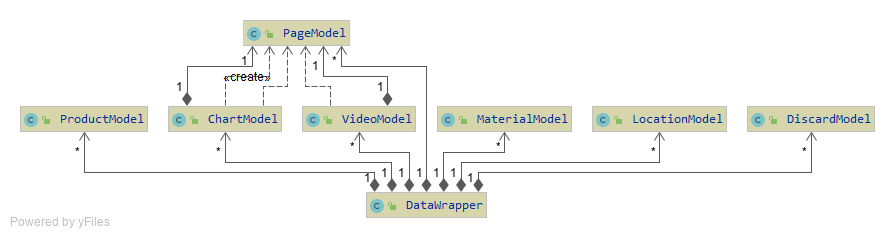
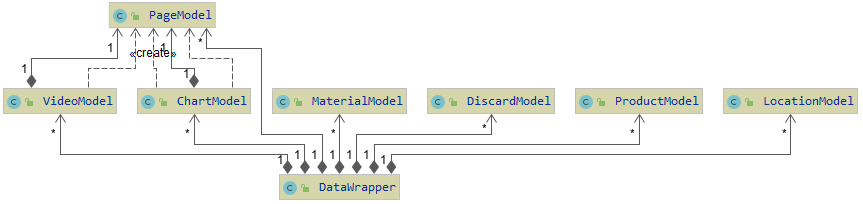
ciclo de vida parte 1

diff --git a/abntex2-modelo-trabalho-academico.tex b/abntex2-modelo-trabalho-academico.tex
@@ -598,6 +598,8 @@ A arquitetura do sistema operacional Android é divida em camadas, onde cada cam
      \label{fig:arquitetura}
 \end{figure}
 
+\newpage
+
 \subsubsection{Kernel}
 Os dispositivos móveis possuem arquiteturas distintas e para isso é necessária uma camada capaz de gerenciar os recursos do sistema, além de fornecer aos programas do usuário uma interface simplificada com o hardware.
 O sistema operacional Android utiliza o kernel do Linux, que é responsável por gerenciar serviços como segurança, gerenciamento de memória, processos, rede e drivers.
@@ -625,6 +627,52 @@ O kit de desenvolvimento de software Android (Android SDK) é um pacote com dive
 Embora o SDK possa ser usado por linha de comando, o método mais comum é usar um ambiente de desenvolvimento integrado (IDE). 
 \subsection{Java SDK}
 O Java SDK, também conhecido como Java Development Kit (JDK) é um conjunto de utilitários que permitem o desenvolvimento de programas capazes de rodar em uma maquina virtual Java (JVM).
+\subsection{Componentes Android}
+\subsubsection{Activity} 
+É um componente que fornece uma tela a qual o usuário pode interagir, um aplicativo pode ter várias activities de entrada que podem chamar inúmeras activities dependendo da interação do usuário. Para usa-las de forma correta, é necessário entender conceitos como seu ciclo de vida, gerenciamento na memória e seus métodos. 
+
+\subsubsection{Fragment}
+Esse componente permite a criação de interfaces ou módulos de interface reutilizáveis, esse componente só existe dentro de uma \textit{activity}, logo, apesar de possuir seu próprio ciclo de vida, alterações no ciclo da vida da \textit{activity} afetam o ciclo de vida do \textit{fragment}.  
+
+\subsection{Gerenciamento de memória}
+Em aplicativos moveis os recursos do sistema são fatores importantes para garantir o desempenho de todas as aplicações, por isso, o sistema operacional \textit{Android} controla como seus recursos serão distribuídos. Aplicativos que estão abertos em segundo plano ou \textit{activities} empilhadas podem ter telas destruídas e variáveis removidas da memoria a qualquer momento. Para solucionar esse problema o sistema operacional oferece um conjunto de \textit{callbacks} no componente \textit{activity} para que o desenvolvedor possa controlar os comportamentos durante as mudanças de estado do sistema, esses estados são controlados pelo ciclo de vida.
+
+\begin{figure}[h]
+\centering
+   \caption{Empilhamento de activities}
+   \includegraphics[scale=0.70]{media/diagram_backstack.png}
+   \legend{Fonte: developer.android.com}
+     \label{fig:arquitetura}
+\end{figure}
+
+\subsection{Ciclo de vida}
+À medida que o usuário navega no aplicativo, sai dele e retorna a ele, as instâncias \textit{Activity} no aplicativo transitam entre diferentes estados no ciclo de vida. A classe Activity fornece uma quantidade de \textit{callbacks} que permite que o desenvolvedor saiba sobre a mudança do estado.
+
+
+\subsubsection{Fluxo do ciclo de vida}
+O Diagrama a seguir mostra quando os \textit{callback} são executados durante a mudança do ciclo de vida da \textit{activity}.
+\begin{figure}[h]
+\centering
+   \caption{Ciclo de vida - Activity}
+   \includegraphics[scale=0.70]{media/activity_lifecycle.png}
+   \legend{Fonte: developer.android.com}
+     \label{fig:arquitetura}
+\end{figure}
+
+\newpage
+\subsubsection{OnCreate} 
+     É chamado assim que uma \textit{activity} é iniciada, boa parte da inicialização é feita nesse \textit{callback}, incluindo o processo de inflação da interface de usuário. O \textit{onCreate} é executado uma vez durante a inicialização e só será chamado novamente caso o sistema operacional decida destruir a \textit{activity} para liberar recursos para \textit{activities} com maior prioridade.
+     \subsubsection{OnStart}
+     Chamado após o \textit{OnCreate} ou após o \textit{OnRestart}, o \textit{Onstart} é executado quando a interface gráfica está visível, porem o usuário ainda não pode interagir. Esse \textit{callback} é normalmente utilizado inicializações adicionais, desenhar componentes e executar animações.
+     \subsubsection{OnResume}
+      Chamado quando a atividade vai iniciar a interação com o usuário. Nesse ponto, sua atividade está no topo da pilha de atividades.
+      \subsubsection{OnRestart}
+     \subsubsection{OnPause}
+     Chamado quando o sistema está por resumir a \textit{activity} anterior. É tipicamente usado para persistir mudanças ainda não efetivadas, parar animações e liberar recursos. A partir desse ponto o sistema operacional pode forçar a liberação de recursos consumidos pela \textit{activity} pausada.
+     \subsubsection{OnStop}
+     \subsubsection{OnDestroy}
+
+\newpage
 \section{API}
 A \textit{Application Programming Interface} (API) permite a comunicação e consumo de dados entre aplicações. Um dos motivos que tornam o uso de uma \textit{API} atrativo é a abstração, já que não é necessário conhecer a plataforma ou maneira que o aplicativo consumidor foi desenvolvido. Outra vantagem é o fato deste modelo ser baseado em tecnologias padrões, em particular o HTTP (Hypertext Transfer Protocol). Os dados transferidos entres essas aplicações seguem um formato padrão, os mais utilizados são \textit{JavaScript Object Notation} (JSON) e \textit{Extensible Markup Languag} (XML). Neste projeto utilizaremos JSON.
 
@@ -930,12 +978,46 @@ Para a prestância da dados foi escolhido o banco de dados mais popular entre os
      \label{fig:pageModel}
 \end{figure}
 
-
-  
+\item{DataWrapper}   \\ A classe \textit{DataWrapper} engloba todos os dados que serão utilizados na aplicação, essa classe foi criada para facilitar a requisição de dados em uma única requisição ao servidor. Vale ressaltar que dados como imagens e vídeos são enviados para o aplicativo de acordo com a necessidade, logo, não há sobrecarga ao realizar uma única requisição.
+\newline
+  \begin{itemize}
+  \item{GraphList}\\ Todos os gráficos .
+       \item{PageList}\\  Todas as páginas 
+         \item{VideoList}\\ Todos os vídeos
+         . \item{LocationList}\\ Todas as localizações pesquisadas pelo usuario.
+         \item{ProductList}\\  Todos os produtos
+         \item{DiscardList}\\ Todos os métodos de descarte 
+         \item{MaterialList}\\  Todos os materiais
+         
+\end{itemize}
+\begin{figure}[h]
+\centering
+   \caption{Entidade - DataWrapper}
+   \includegraphics[scale=1.0]{media/DataWrapperModel.png}
+   \legend{Fonte: Autor}
+     \label{fig:datawrapper}
+\end{figure}
 \end{enumerate}
 
+\newpage
+\subsubsection{Diagrama de classe geral}
+As imagens a seguir representam as dependências entre as entidades.
 
+\begin{figure}[h]
+\centering
+   \caption{Diagrama Geral - Simplificado}
+   \includegraphics[scale=0.7]{media/DataWrapper_.png}
+   \legend{Fonte: Autor}
+     \label{fig:datawrapper_simp}
+\end{figure}
 
+\begin{figure}[h]
+\centering
+   \caption{Diagrama Geral - Completo}
+   \includegraphics[scale=0.85]{media/DataWrapper.png}
+   \legend{Fonte: Autor}
+     \label{fig:datawrapper_comp}
+\end{figure}
 
 \end{chapter}
 
